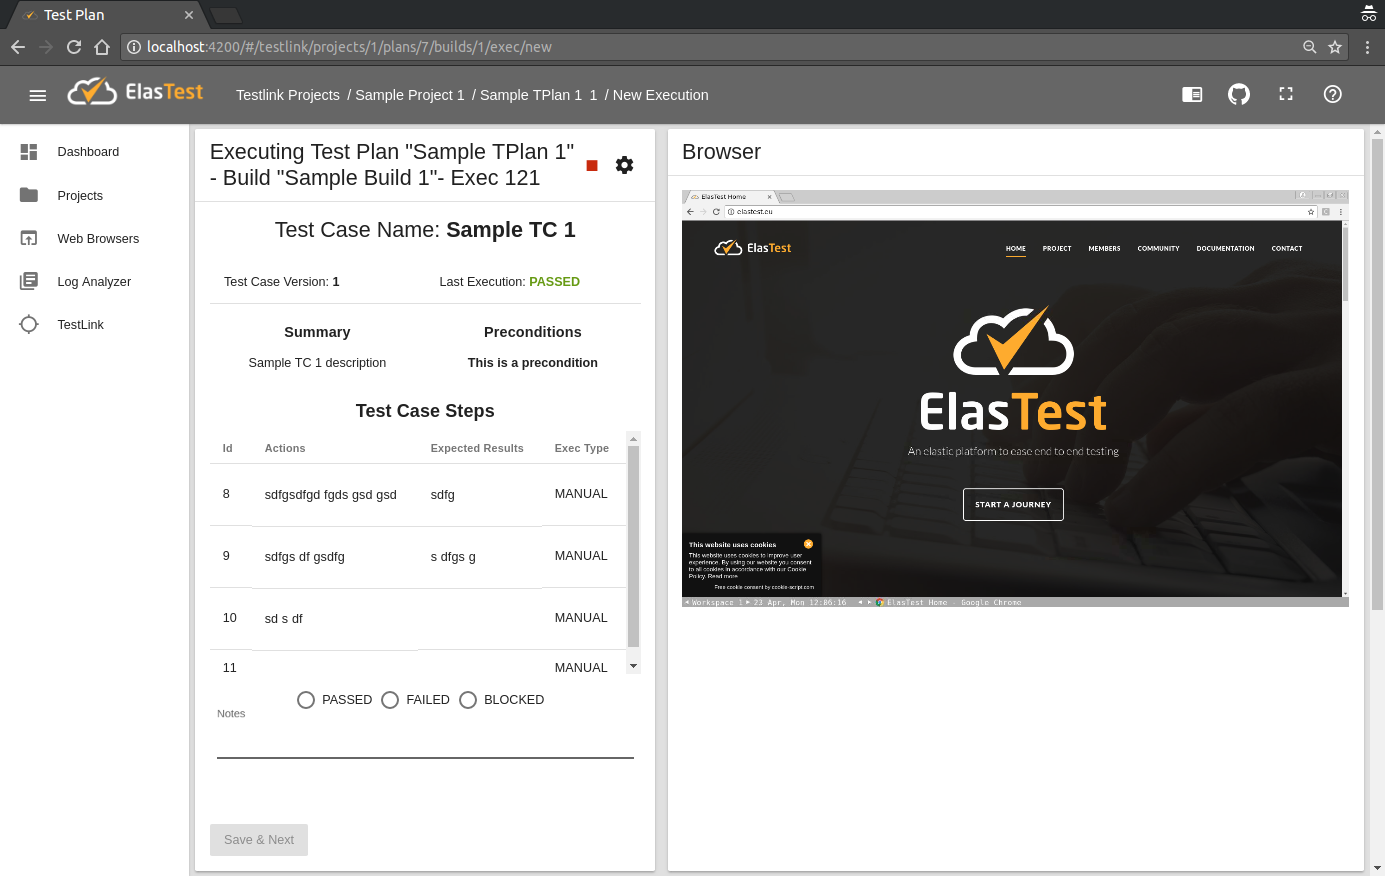
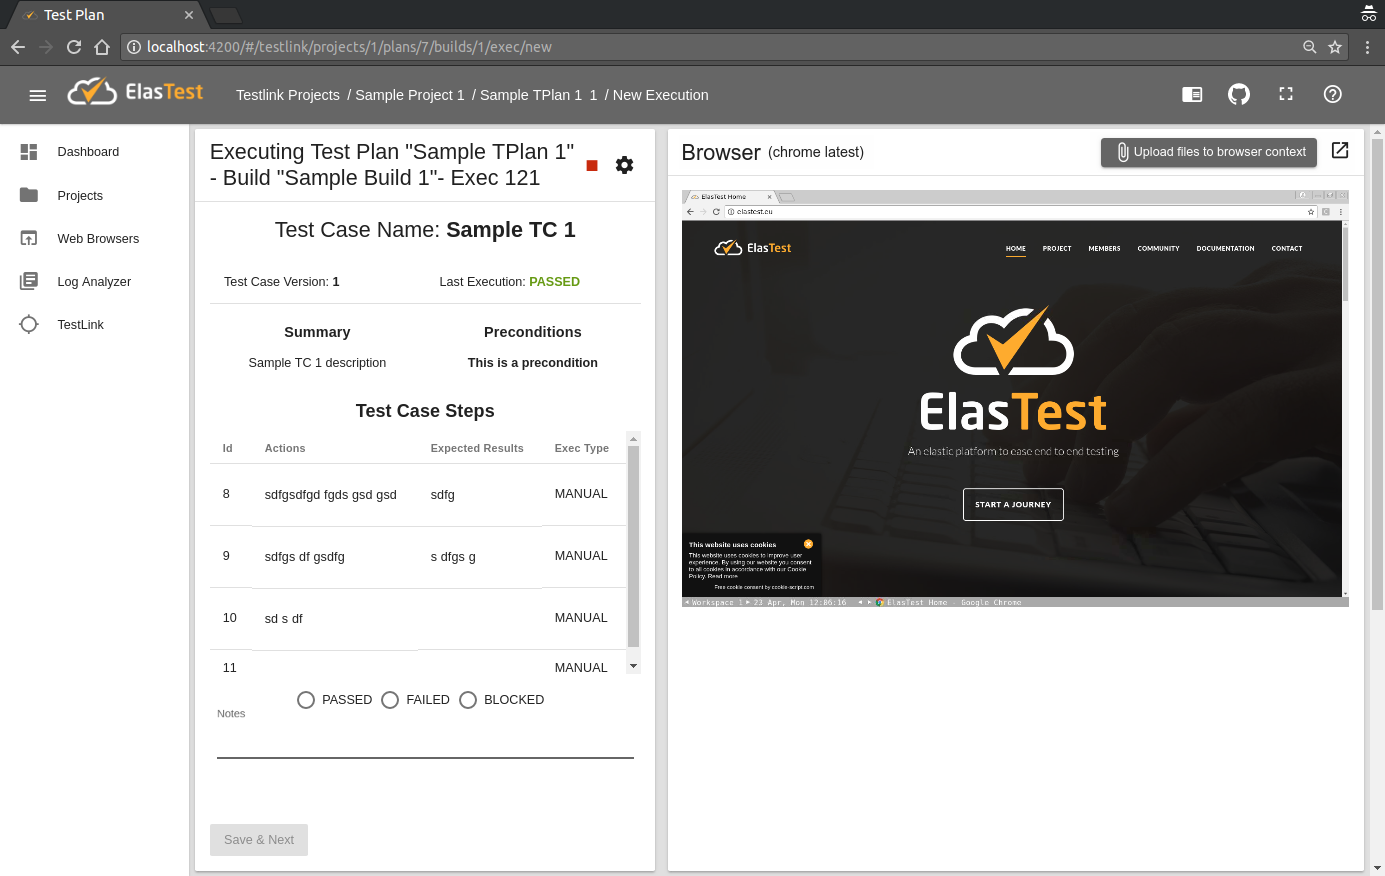
Deploy from Travis CI

Changed region(s): [[0.7762, 0.1541, 0.9935, 0.2158], [0.4968, 0.1541, 0.6209, 0.1849]]

diff --git a/docs/releases/index.html b/docs/releases/index.html
@@ -493,6 +493,33 @@ section-icon: mdi mdi-content-copy
 
 <!-- ************************* -->
 
+<!-- ********* 1.4.0 ********* -->
+
+<!-- ************************* -->
+
+<h3 id="1.4.0" class="small-subtitle">1.4.0</h3>
+
+<h4 class="smaller-subtitle">08/04/2019</h4>
+
+<h5 class="smaller-subtitle">Features & Improvements</h5>
+
+<ul>
+<li><a target="_blank" href="/docs/web-browsers/e2e-browser">Browsers started by a TJob</a> run now have a <strong>fixed name</strong>, allowing you to compare browser logs between different executions**.</li>
+<li>It is now possible to <strong class="italicEtColor">upload files</strong> to a <strong>browser</strong> and also <strong class="italicEtColor">download</strong> them.</li>
+<li>A button has been added to <strong><code>upload files to the browser context</code></strong> on the <a target="_blank" href="/docs/testlink">TestLink</a> Test Plan <strong>execution</strong> page.</li>
+<li>It is possible to <strong>attach evidence files</strong> to the executions by means of an api that the TJob receives in an <a target="_blank" href="/docs/testing/environment-variables/">environment variable</a> (<em>ET_ETM_TJOB_ATTACHMENT_API</em>).</li>
+<li>The <strong><code>View in loganalyzer</code></strong> button has been added to the section of a <strong>specific Test Case</strong>.</li>
+</ul>
+<h5 class="smaller-subtitle">Bug Fixes</h5>
+
+<ul>
+<li>Fixed a bug in <a target="_blank" href="/docs/executions-comparator/#log-comparator">Log Comparator</a> that failed to get start/finish traces when testName had special characters or reserved for regex (<em>:[]$</em>...).</li>
+<li><strong>Browser logs</strong> that contain <strong>line breaks</strong> are now split and combined with the line break character, since it used to give an exception and were not being saved.</li>
+<li>Definitively fixed <a target="_blank" href="/docs/log-analyzer/">LogAnalyzer</a> date bug with Test Cases.</li>
+<li>If there is a connection problem on get <strong>browser images</strong> from Docker Hub, the <strong>cached</strong> images are used.</li>
+</ul>
+<!-- ************************* -->
+
 <!-- ********* 1.3.1 ********* -->
 
 <!-- ************************* -->

diff --git a/docs/testlink/index.html b/docs/testlink/index.html
@@ -559,8 +559,13 @@ section-icon: mdi mdi-content-copy
     <a data-fancybox="gallery-4" href="/docs/testlink/images/testplan_execute.png"><img class="img-responsive img-wellcome" src="/docs/testlink/images/testplan_execute.png"/></a>
 </div>
 
-<p>If you have associated a Sut to the Test Plan, you must wait until the Sut is ready to be used, then the browser will start as indicated in the previous paragraph and the url of the Sut will be loaded in that browser to test.</p>
-<p>When your test is finished, you must fill the fields for each Test Case and click "Save &amp; Next" button.</p>
+<p>If you have <strong><code>associated a Sut</code></strong> to the Test Plan, you must wait until the Sut is ready to be used, then the browser will start as indicated in the previous paragraph and the url of the Sut will be loaded in that browser to test.</p>
+<p>If you need to <strong><code>attach files</code></strong> you have on your machine to your browser, you can add them to the browser context by using the <strong>Upload files to browser context</strong> button. You can select more than one file at a time. Once uploaded to the browser context, you can find them in <em>/home/ubuntu/et_shared_files</em>.</p>
+<div class="docs-gallery inline-block">
+    <a data-fancybox="gallery-4" href="/docs/testlink/images/testplan_execute_uploadfile.png"><img class="img-responsive img-wellcome" src="/docs/testlink/images/testplan_execute_uploadfile.png"/></a>
+</div>
+
+<p>When your test is finished, you must fill the fields for each Test Case and click <strong>Save &amp; Next</strong> button.</p>
 <h5 class="small-subtitle">TestLink Test Plan Execution Result</h5>
 
 <p>Once you have completed all the test cases you will can see an overview of your test executed.</p>

diff --git a/docs/testing/environment-variables/index.html b/docs/testing/environment-variables/index.html
@@ -581,6 +581,13 @@ section-icon: mdi mdi-content-copy
 <td>Is an external TJob</td>
 <td>TJob</td>
 </tr>
+<tr>
+<td><strong>ET_ETM_TJOB_ATTACHMENT_API</strong></td>
+<td>It contains an api url that allows us to attach evidence files to the execution</td>
+<td>"http://172.18.0.1:37000/api/tjob/exec/707/attachment"</td>
+<td>Always available</td>
+<td>TJob</td>
+</tr>
 </tbody>
 </table>
 <p><br>
